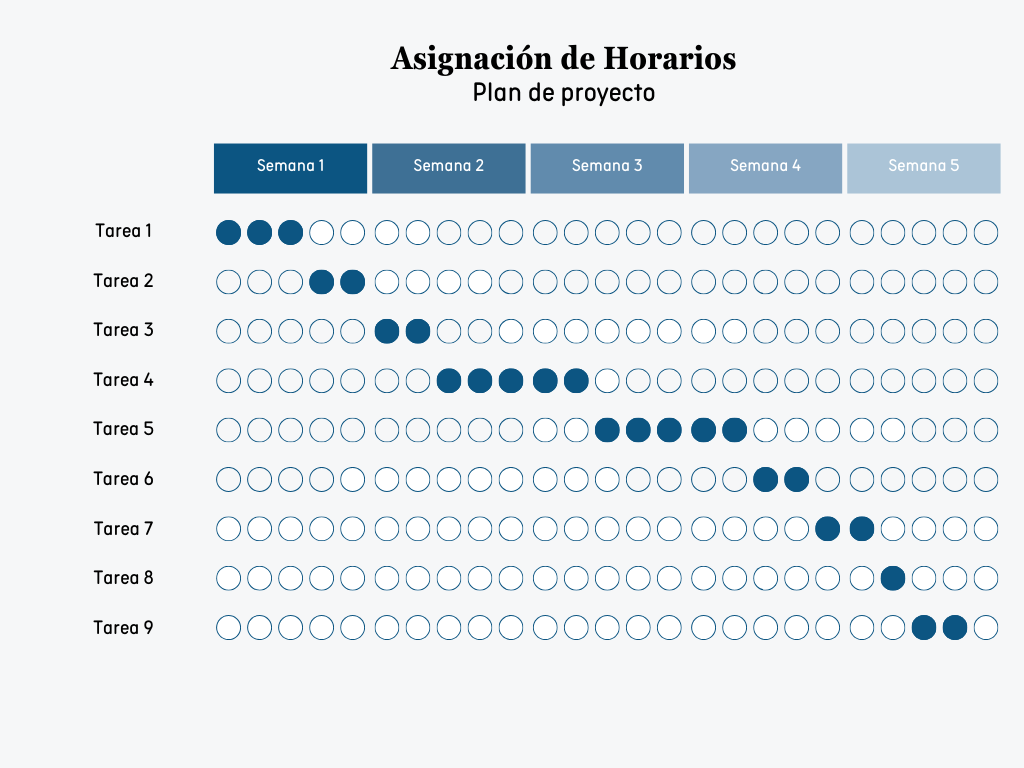
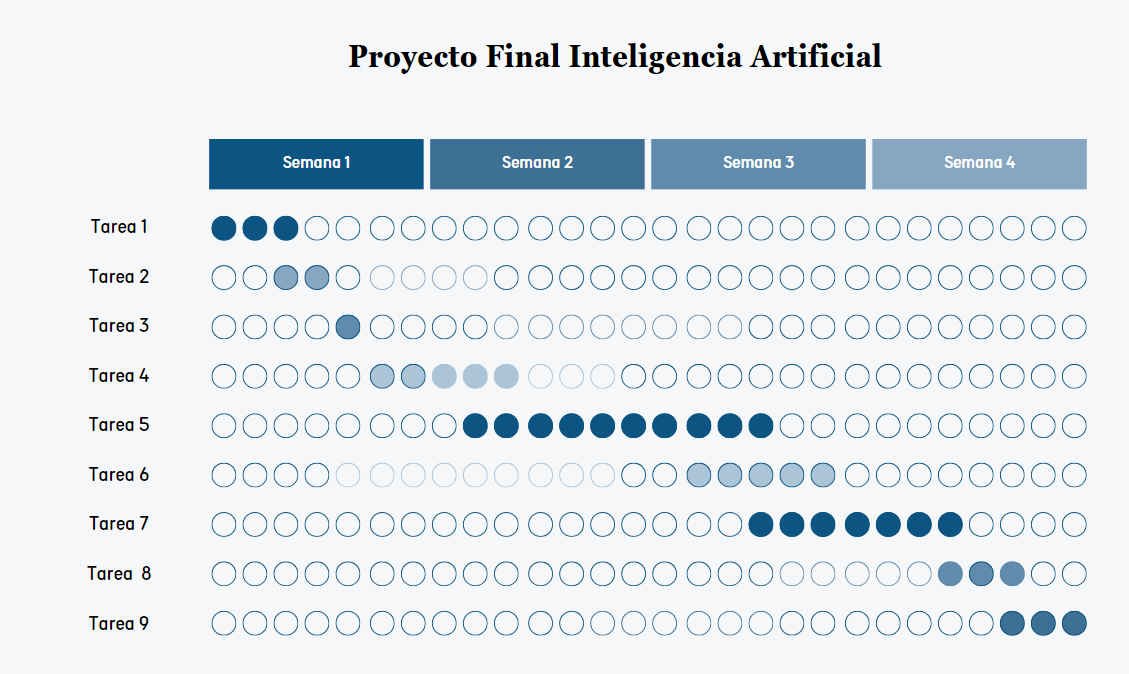
Nuevo anteproyecto.md

diff --git a/proyecto_final/anteproyecto.md b/proyecto_final/anteproyecto.md
@@ -1,129 +1,130 @@
 # Anteproyecto Final - IA
 
-## Agente de Aprendizaje por Refuerzo para Desafíos de Parkour en Minecraft
+## Agente de Aprendizaje por Refuerzo para superar Space Invaders
 
-## Código del proyecto: JUMPCRAFT
+## Código del proyecto: SPACEAI
 
 ## Integrantes
 - Ramirez Victor
 - Ruiz Joaquin
 
 ## Introducción
-Minecraft es un videojuego de construcción y aventura lanzado oficialmente por Mojang Studios en 2011. Se desarrolla en un mundo abierto en 3D, compuesto por bloques, donde los jugadores pueden explorar, recolectar recursos, construir estructuras y sobrevivir en diversos entornos. El juego ofrece varios modos, incluyendo el Modo Supervivencia, en el que los jugadores deben gestionar su salud y recursos para sobrevivir a criaturas del juego, y el Modo Creativo, que proporciona acceso ilimitado a materiales y la capacidad de volar.
+Space Invaders es un videojuego de disparos y arcade lanzado en 1978 por la compañía Taito. En este juego, el jugador asume el control de una nave espacial que tiene como misión defender la Tierra de oleadas de invasores alienígenas. El objetivo principal es eliminar a todos los enemigos antes de que desciendan hasta la parte inferior de la pantalla, donde se encuentra la nave del jugador.
 
-Dentro del mundo de Minecraft, los jugadores pueden encontrar diferentes biomas, como bosques, desiertos y montañas, cada uno con sus propios recursos y desafíos. El juego incluye mecánicas de minería, agricultura y caza, permitiendo a los jugadores crear herramientas y construir refugios para protegerse de los enemigos. Además, pueden interactuar con NPCs (personajes no jugables), crear aldeas y hasta explorar estructuras generadas aleatoriamente, como templos y aldeas. Los jugadores son libres de desplazarse por su entorno y modificarlo mediante la creación, recolección y transporte de los bloques que componen al juego, los cuales solo pueden ser colocados respetando la rejilla fija del juego.
+La dinámica de juego es la siguiente: el jugador puede mover la nave de manera lateral y disparar proyectiles hacia las filas de enemigos, que avanzan en formación y aceleran su movimiento a medida que se acercan. Cada nivel se completa al destruir todas las naves alienígenas, pero si alguna llega al extremo inferior de la pantalla o si el jugador pierde todas sus vidas, el juego termina.
 
-![](./images/minecraft.webp)
+Los modos y dificultades de Space Invaders se distinguen por factores como la velocidad y frecuencia de los proyectiles enemigos, el aumento de la rapidez de movimiento de los invasores a medida que disminuyen en número, la reducción de vidas y defensas del jugador en niveles avanzados, y patrones de movimiento de los enemigos que se vuelven menos predecibles en niveles superiores. También se implementa una dificultad progresiva que incrementa dinámicamente la intensidad del juego con cada nivel, lo que mantiene el desafío constante para el jugador a lo largo de la partida.
+
+
+![](./images/space_invaders_logo.png)
 
 ## Descripción
 
 ### Desafío
-En el contexto de Minecraft, el parkour se refiere a un estilo de juego que implica el uso de saltos y movimientos para superar obstáculos y recorrer mapas diseñados específicamente para este propósito. Los jugadores crean o juegan en niveles que desafían sus habilidades de control del personaje, utilizando técnicas de salto preciso, escalada y equilibrio para navegar a través de plataformas, muros y otros elementos del entorno.
+En el contexto de Space Invaders, el desafío radica en la defensa del planeta Tierra contra oleadas sucesivas de alienígenas. Los jugadores deben disparar de manera precisa, mover su nave lateralmente y esquivar los proyectiles enemigos. Cada nivel presenta una formación de invasores que se desplazan hacia abajo a medida que el jugador avanza, aumentando la velocidad y dificultad a medida que se eliminan más enemigos.
 
-Los mapas de parkour en Minecraft pueden variar en dificultad y complejidad, desde recorridos simples que solo requieren saltos básicos, hasta desafíos avanzados que implican saltos de gran precisión, cambios de dirección rápidos y el uso de mecánicas especiales, como bloques de slime o pistones.
+La dificultad del juego radica en que velocidad de los alienígenas aumenta a medida que va progresando. Los jugadores deben gestionar sus movimientos para esquivar los disparos enemigos y a su vez eliminarlos. Además, la aparición de naves especiales que otorgan puntos extra añade una capa adicional de desafío y recompensa.
 
-### Diseño de los Mapas de Parkour
+### Diseño de los Mapas de Space Invaders
+Para el desarrollo de este proyecto, se crearán diferentes configuraciones dentro del entorno de Space Invaders de OpenAI Gym, cada una diseñada para evaluar distintas habilidades y estrategias del agente en cuanto a navegación y toma de decisiones. Los escenarios se estructurarán para que el agente enfrente desafíos crecientes de dificultad a medida que progresa, con el fin de optimizar su rendimiento en el contexto del juego. 	
 
-Para el desarrollo de este proyecto, se crearán varios mapas de parkour en Minecraft, cada uno con características específicas de dificultad y obstáculos para entrenar al agente. Los mapas estarán diseñados para evaluar diferentes aspectos de movilidad y precisión en los saltos, así como la capacidad del agente para adaptarse a distintos desafíos de navegación. Los escenarios incluirán:
+Los escenarios se pueden editar según:
 
-- **Niveles básicos:** Mapas con plataformas grandes y pocas variaciones en altura, destinados a que el agente aprenda movimientos básicos y nociones de salto sin obstáculos complejos.
-  
-- **Niveles intermedios:** Estos mapas incrementarán la complejidad con plataformas más pequeñas y mayor variedad de alturas. También incluirán obstáculos que requerirán que el agente realice saltos diagonales o cambios rápidos de dirección.
-
-- **Niveles avanzados:** Mapas con plataformas pequeñas, saltos de precisión y obstáculos como bloques de slime o pistones que impulsarán al agente en distintas direcciones, simulando los niveles de mayor dificultad en desafíos de parkour reales.
+- **Dificultad:** Hay 2 dificultades, en la dificultad más baja el tamaño del agente es chico mientras que en la dificultad alta el tamaño del agente es más grande (se engrosa).
+- **Modos:** El entorno cuenta con 16 modos, cada uno de ellos permite por ejemplo el movimiento de los escudos (piezas en las que puede protegerse el jugador de proyectiles enemigos) así como también velocidad y trayectoria de los proyectiles enemigos. En la documentación se denominan "flavors", ya que permiten ir cambiando la dinámica del juego.
 
 
-![](./images/parkour.webp)
+![](./images/space-invaders-atari-2600.webp)
 
 ### Objetivos
-Desarrollar un agente capaz de completar trayectorias de parkour de distintos niveles de dificultad, utilizando aprendizaje por refuerzo para aprender movimientos eficientes en el entorno de Minecraft.
+Desarrollar un agente capaz de completar niveles de Space Invaders de distintos niveles de dificultad, utilizando aprendizaje por refuerzo para aprender estrategias eficientes en el entorno de juego.
 
 ### Alcance
-Este proyecto se centra en la capacitación de un agente en niveles de parkour diseñados en Minecraft, los cuales varían en dificultad y tipo de obstáculos. La capacitación se hará en un entorno simulado, utilizando algoritmos de aprendizaje por refuerzo como Q-Learning, DQN (Deep Q-Network) o PPO (Proximal Policy Optimization).
+Este proyecto se centra en el entrenamiento de un agente en un entorno simulado de Space Invaders, con distintos niveles de dificultad y modos (flavors). El agente será entrenado utilizando algoritmos de aprendizaje por refuerzo, como Q-Learning, DQN (Deep Q-Network) o PPO (Proximal Policy Optimization), para mejorar su capacidad de esquivar disparos, destruir enemigos y maximizar su puntuación. Dado que el equipo no cuenta con GPUs dedicadas, posiblemente se opte primero por desarrollar el algoritmo de Q-Learning ya que no se utilizan redes neuronales. Se intentará utilizar DQN y/o PPO como una segunda opción, pero posiblemente sean de menor nivel para evitar costos computacionales altos.
 
 ### Recolección de Datos para el Desarrollo de los Algoritmos
 
-La recolección de datos se llevará a cabo mediante una combinación de **mods** y **plugins** en el entorno de Minecraft. Esta estrategia permitirá controlar los movimientos del agente y registrar su rendimiento durante el proceso de entrenamiento.
+La recolección de datos se llevará a cabo mediante la interacción directa del agente con el entorno de Space Invaders dentro de OpenAI Gym. Esto permitirá controlar las acciones del agente (mover la nave y disparar) y registrar su rendimiento (número de enemigos eliminados, vidas restantes, etc.) durante el proceso de entrenamiento. Los datos recolectados se utilizarán para entrenar el modelo de aprendizaje por refuerzo y mejorar la toma de decisiones del agente en niveles de dificultad progresiva.
 
-#### **Uso de Mods**
+Los datos del juego incluyen:
 
-El **mod** será responsable de controlar al agente dentro del juego, permitiéndole realizar acciones como moverse y saltar en los niveles de parkour. Además, el mod registrará en tiempo real:
-
-- **Movimientos y acciones** del agente.
-- **Recompensas** obtenidas después de cada acción.
-- **Estado del entorno** (por ejemplo, si el agente está en una plataforma o ha caído).
-
-Estos datos se utilizarán para entrenar el algoritmo de aprendizaje por refuerzo (como Q-learning), permitiendo que el agente aprenda de sus errores y mejore sus decisiones.
-
-#### **Uso de Plugins**
-
-Los **plugins** estarán instalados en el servidor de Minecraft y permitirán:
-
-- **Monitorear tiempos de completado** y **fallos** del agente.
-- **Registrar estadísticas** sobre el rendimiento, como número de caídas y movimientos exitosos.
-- **Almacenar y exportar los datos** para su posterior análisis y ajuste del algoritmo.
-
-#### **Integración de Mods y Plugins**
-
-La combinación de ambos permitirá recolectar datos tanto de los movimientos del agente como de su rendimiento en los niveles de parkour, lo que facilitará la optimización del algoritmo de aprendizaje por refuerzo.
+- **Posición de la nave del jugador:** Para controlar su movimiento lateral.
+- **Estado de los enemigos:** Para que el agente aprenda a anticipar sus movimientos y gestionar las amenazas.
+- **Disparos enemigos:** Para que el agente aprenda a esquivarlos y a tomar decisiones de evasión.
+- **Puntuación y vidas restantes:** Para evaluar la efectividad de las estrategias del agente.
 
 ## Justificación
-La aplicación de algoritmos y técnicas de inteligencia artificial en el proyecto se justifica por la complejidad y la naturaleza dinámica del entorno del juego, donde los movimientos del jugador y la superación de obstáculos requieren decisiones rápidas y precisas. A través del uso de técnicas como el aprendizaje por refuerzo, es posible entrenar un modelo para que aprenda a optimizar sus movimientos y rutas, adaptándose a diferentes escenarios y desafíos en tiempo real. Esto permite desarrollar un agente que no solo mejora su rendimiento mediante la experiencia, sino que también puede enfrentar situaciones que son difíciles de resolver mediante enfoques tradicionales, como la programación de rutas fijas.
+La aplicación de algoritmos y técnicas de inteligencia artificial en el proyecto de Space Invaders se justifica por la complejidad y naturaleza dinámica del entorno de juego, donde el agente debe tomar decisiones rápidas y precisas para evitar los disparos enemigos y destruir las oleadas de invasores. A través del uso de técnicas como el aprendizaje por refuerzo, es posible entrenar un modelo que aprenda a optimizar sus movimientos y su estrategia de disparo en función de la situación, adaptándose a las diferentes formaciones de enemigos y patrones de ataque.
 
-### Planificación del Agente Baseline con Movimientos Ponderados
-Se diseñará un agente baseline que empleará movimientos aleatorios, pero con probabilidades ajustadas para favorecer acciones que lo acerquen a la meta y le permitan realizar saltos en ubicaciones estratégicas. Este enfoque permitirá que el agente logre avances básicos en los niveles de parkour, aunque sin incorporar optimización ni aprendizaje dinámico. Para esto, se calibrarán los pesos en las probabilidades de sus movimientos, incrementando la probabilidad de ejecutar acciones “útiles”, como saltar en plataformas específicas, en lugar de realizar movimientos sin un propósito claro.
+### Planificación del Agente Baseline
+Se implementará un agente heurístico  que se basa en las siguientes reglas para la toma de decisiones en el entorno de Space Invaders:
+
+- Detección y Disparo a Enemigos: El agente dispara cada vez que hay un enemigo alineado verticalmente con la posición actual de la nave. Esta regla busca maximizar la eficiencia de los disparos sin desperdiciar municiones en posiciones no alineadas con los enemigos.
+- Evasión de Proyectiles: Para evitar colisiones con los proyectiles enemigos, el agente se mueve horizontalmente cuando detecta que hay un proyectil en su misma columna y en una proximidad que represente una amenaza.
 
 ### Limitaciones
 - **Tiempo de entrenamiento:** Dado que el aprendizaje por refuerzo es computacionalmente costoso, es posible que el entrenamiento se limite a pocos episodios por cuestión de recursos computacionales.
 
 ### Métricas
-- **Tiempo de completado:** El tiempo promedio que el agente tarda en completar cada trayecto de parkour.
-- **Número de intentos fallidos (caídas):** La cantidad de veces que el agente cae o falla en completar el trayecto antes de alcanzar el estado objetivo.
-- **Progresión del agente (porcentaje de éxito):** Porcentaje de intentos en los que el agente alcanza el objetivo final, comparado con el total de intentos.
+- **Puntuación obtenida:** La puntuación promedio del agente en cada episodio, que mide su capacidad para eliminar enemigos y completar niveles.
+- **Porcentaje de éxito:** Porcentaje de episodios en los que el agente completa el nivel sin perder todas las vidas disponibles.
+- **Tiempo:** Tiempo promedio en que el agente logra pasar el nivel.
 
 ## Listado de Actividades a Realizar
 
-1. **Investigación sobre Aprendizaje por Refuerzo (3 días)**
-   - Revisar literatura sobre algoritmos de aprendizaje por refuerzo, especialmente DQN y Q-Learning.
-   - Estudiar ejemplos y aplicaciones previas en entornos similares.
+1. Investigación sobre Aprendizaje por Refuerzo (3 días)
 
-2. **Configuración del entorno de desarrollo (2 día)**
-   - Instalar las herramientas necesarias (Minecraft, bibliotecas de IA, entornos de simulación).
-   - Configurar el entorno de desarrollo, asegurando que el agente pueda interactuar con Minecraft.
+- Revisar literatura sobre algoritmos de aprendizaje por refuerzo, especialmente DQN y Q-Learning.
+- Estudiar ejemplos y aplicaciones previas en entornos similares, particularmente en Space Invaders.
 
-3. **Definición de los escenarios de parkour en Minecraft (2 días)**
-   - Diseñar y construir niveles de parkour con diferentes niveles de dificultad en Minecraft.
+2. Configuración del entorno de desarrollo (2 día)
 
-4. **Implementación del algoritmo de Aprendizaje por Refuerzo (5 días)**
-   - Codificar el algoritmo de aprendizaje por refuerzo elegido (DQN y Q-Learning).
-   - Integrar el algoritmo con el entorno de Minecraft.
+- Investigar sobre el entorno de Atari ALE (Arcade Learning Environment).
+- Instalar las herramientas necesarias (OpenAI Gym, bibliotecas de IA).
+- Configurar el entorno de Space Invaders en OpenAI Gym para permitir la interacción con el agente.
 
-5. **Entrenamiento del agente (5 días)**
-   - Ejecutar múltiples episodios de entrenamiento, permitiendo al agente aprender a través de la experiencia.
-   - Monitorizar el progreso del agente y ajustar parámetros según sea necesario.
+3. Definición de los escenarios de Space Invaders (1 día)
 
-6. **Evaluación y ajuste del modelo (2 días)**
-   - Evaluar el rendimiento del agente utilizando las métricas definidas.
-   - Realizar ajustes en el algoritmo, la función de recompensa y los parámetros de entrenamiento para mejorar el rendimiento.
+- Ajustar los parámetros de dificultad del juego, como la cantidad de enemigos, velocidad de movimiento y frecuencia de disparos enemigos.
 
-7. **Documentación del proceso (2 días)**
-   - Documentar cada etapa del desarrollo, incluyendo decisiones de diseño y resultados de pruebas.
-   - Preparar un informe final que incluya la justificación, metodología, métricas y conclusiones del proyecto.
+4. Implementación del algoritmo de Aprendizaje por Refuerzo (5 días)
 
-8. **Preparación de presentaciones (1 días)**
-   - Crear una presentación que resuma el proyecto, los objetivos, el enfoque y los resultados.
-   - Practicar la presentación para asegurar una comunicación clara y efectiva.
+- Codificar el algoritmo de aprendizaje por refuerzo elegido (DQN y Q-Learning).
+- Integrar el algoritmo con el entorno de Space Invaders en OpenAI Gym.
 
-9. **Revisión y correcciones finales (2 días)**
-    - Revisar toda la documentación y el código para corregir errores y mejorar la claridad.
-    - Asegurarse de que toda la información esté completa y lista para la entrega final.
+5. Entrenamiento del agente (10 días)
 
-**Tiempo Total Estimado: 24 días**
+- Ejecutar múltiples episodios de entrenamiento, permitiendo al agente aprender a través de la experiencia.
+- Monitorizar el progreso del agente y ajustar parámetros según sea necesario, como las tasas de aprendizaje y las recompensas por eliminar enemigos o evitar disparos.
+
+6. Evaluación y ajuste del modelo (5 días)
+
+- Evaluar el rendimiento del agente utilizando las métricas definidas (puntuación, número de muertes, éxito, etc.).
+- Realizar ajustes en el algoritmo, la función de recompensa y los parámetros de entrenamiento para mejorar el rendimiento del agente.
+
+7. Documentación del proceso (7 días)
+
+- Documentar cada etapa del desarrollo, incluyendo decisiones de diseño y resultados de pruebas.
+- Preparar un informe final que incluya la justificación, metodología, métricas y conclusiones del proyecto.
+
+8. Preparación de presentaciones (3 días)
+
+- Crear una presentación que resuma el proyecto, los objetivos, el enfoque y los resultados obtenidos.
+- Practicar la presentación para asegurar una comunicación clara y efectiva.
+
+9. Revisión y correcciones finales (3 días)
+
+- Revisar toda la documentación y el código para corregir errores y mejorar la claridad.
+- Asegurarse de que toda la información esté completa y lista para la entrega final.
+
+Tiempo Total Estimado: 28 días
 
 ![](./images/planificacion.png)
 
 
 ## Referencias
-- https://towardsdatascience.com/create-a-bot-to-find-diamonds-in-minecraft-d836606a993a
-
-- https://dohyeongkim.medium.com/deep-q-learning-from-demonstrations-dqfd-for-minecraft-tutorial-1-4b462a18de5a
+- https://ale.farama.org
+- https://www.gymlibrary.dev
+- https://atariage.com/manual_html_page.php?SoftwareLabelID=460
+- https://www.gymlibrary.dev/environments/atari/space_invaders/
+- https://jair.org/index.php/jair/article/view/11182/26388 (Sección 7.4.1)
